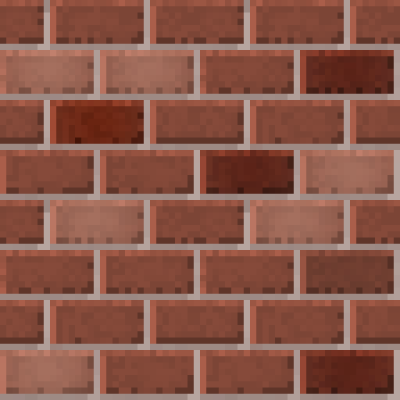
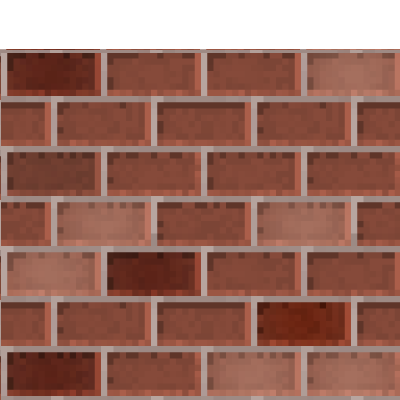
Update code style

diff --git a/lib/game.js b/lib/game.js
@@ -4,32 +4,32 @@ import Enemy from './enemy.js';
 class Game {
     constructor(window) {
         this.window = window;
-        this.speed = 5;
+        this.speed = 7;
         this.score = 0;
         this.xPos = 0;
         this.x2Pos = this.window.innerWidth;
         this.trump = this.createTrump();
         this.enemies = [];
+        this.createEnemy();
         this.createEnemies();
         this.background = new Image();
         this.backgroundFlipped = new Image();
-        this.background.src = "assets/77.jpg";
-        this.backgroundFlipped.src = "assets/77-flipped.jpg";
+        this.background.src = "assets/bg5.jpg";
+        this.backgroundFlipped.src = "assets/bg5-flipped.jpg";
     }
 
     start(canvasEl) {
         let ctx = canvasEl.getContext('2d');
         canvasEl.width = this.window.innerWidth - 20;
         canvasEl.height = this.window.innerHeight - 20;
-
-        
+ 
         const animateCallback = () => {
             this.frame = requestAnimationFrame(animateCallback);
-
             this.renderBackground(ctx);
 
             for (let i = this.enemies.length - 1; i >= 0; i--) {
                 this.trump.collided(this.enemies[0], this.window);
+
                 this.enemies[i].draw(ctx);
                 this.enemies[i].update(this.speed);
 
@@ -39,50 +39,51 @@ class Game {
             }
 
             this.trump.draw(ctx);
+            this.trump.move();
             this.trump.fall(this.window);
 
             if (this.trump.gameOver) {
-                cancelAnimationFrame(this.frame);
+                // cancelAnimationFrame(this.frame);
             }
-
+            this.addScore();
             this.getScore(ctx);
         };
         animateCallback();
     }
 
     createTrump() {
-        const size = [75, 75];
-        const pos = [this.window.innerWidth/5, this.window.innerHeight/2 - size[1]];
+        const size = this.window.innerHeight/6;
+        const pos = [this.window.innerWidth/5, this.window.innerHeight/2 - size];
         let trump = new Trump({ size, pos });
         return trump;
     }
 
     createEnemies() {
-        setInterval(() => this.createEnemy(), 2000)
+        setInterval(() => this.createEnemy(), 2000);
     }
 
     createEnemy() {
-        let pos = [this.window.innerWidth, this.window.innerHeight]
+        let pos = [this.window.innerWidth, this.window.innerHeight];
         let speed = this.speed;
-        let nEnemies = 5
-        let options = {pos, speed, nEnemies}
+        let nEnemies = 5;
+        let topBot = this.generateEnemyPosition();
+        let options = {pos, speed, nEnemies, topBot};
         this.enemies.push(new Enemy(options));
     }
 
-    // generateEnemyPosition() {
-    //     let height = this.window.innerHeight - 125;
-    //     let ratios = [0.25, 0.33, 0.5, 0.67, 0.75]
-    //     var ratio = ratios[Math.floor(Math.random()*ratios.length)];
-    //     let pos = [height * ratio, height * 1 - ratio];
-    //     return pos
-    // }
+    generateEnemyPosition() {
+        let height = this.window.innerHeight - 200;
+        let ratios = [0.25, 0.33, 0.5, 0.67, 0.75];
+        var ratio = ratios[Math.floor(Math.random()*ratios.length)];
+        let topBot = [height * ratio, height * (1 - ratio)];
+        return topBot;
+    }
 
     renderBackground(ctx) {
         this.xPos -= this.speed;
         this.x2Pos -= this.speed;
 
         ctx.drawImage(this.background, this.xPos, 0, this.window.innerWidth, this.window.innerHeight);
-
         ctx.drawImage(this.backgroundFlipped, this.x2Pos, 0, this.window.innerWidth, this.window.innerHeight);
 
         if (this.x2Pos < -this.window.innerWidth) this.x2Pos = -this.x2Pos - 15;
@@ -94,7 +95,8 @@ class Game {
     }
 
     addScore() {
-        if (this.trump.collided(this.enemies[0], this.window)) this.score++
+        if (this.trump.pos[0] > (this.enemies[0].x - this.enemies[0].width) && 
+        this.trump.pos[0] < (this.enemies[0].x - this.enemies[0].width) + 10) this.score++;
     }
 
     getScore(ctx) {

diff --git a/lib/trump.js b/lib/trump.js
@@ -2,17 +2,34 @@ class Trump {
     constructor(options) {
         this.size = options.size;
         this.pos = options.pos;
+        this.xPos = 0;
+        this.moveCounter = 0;
         this.radius = 35;
         this.velocity = 0;
         this.gravity = .45;
         this.lift = 9;
         this.gameOver = false;
         this.trump = new Image();
-        this.trump.src = "assets/trump.png";
+        this.trump.src = "assets/trump_run.png";
     }
 
     draw(ctx) {
-            ctx.drawImage(this.trump, this.pos[0], this.pos[1], this.size[0], this.size[1]);   
+        ctx.drawImage(this.trump, this.xPos, 256, 256, 256, this.pos[0], this.pos[1], this.size, this.size);   
+    }
+
+    move() {
+        this.mCounter();
+        if (this.moveCounter % 5 == 0) {
+            if (this.xPos == 1280) {
+                this.xPos = 0
+            } else {
+                this.xPos += 256;
+            }
+        }
+    }
+
+    mCounter() {
+        this.moveCounter++
     }
 
     jump() {
@@ -23,8 +40,8 @@ class Trump {
         this.velocity -= this.gravity;
         this.pos[1] -= this.velocity;
 
-        if (this.pos[1] > window.innerHeight - this.size[1]) {
-            this.pos[1] = window.innerHeight - this.size[1];
+        if (this.pos[1] > window.innerHeight - this.size) {
+            this.pos[1] = window.innerHeight - this.size;
             this.velocity = 0;
             this.gameOver = true;
         } else if (this.pos[1] < 0) {
@@ -34,12 +51,13 @@ class Trump {
     }
 
     collided(enemy, window) {
-        if (this.pos[0] + this.size[0] + 100 > enemy.x && this.pos[0] + 100 < enemy.x + enemy.width) {
-            if (this.pos[1] < enemy.top || this.pos[1] + this.size[1] -10 > window.innerHeight - enemy.bottom) {
+        if (this.pos[0] + this.size + 90 > enemy.x && 
+            this.pos[0] + 150 < enemy.x + enemy.width) {
+            if (this.pos[1] + this.size -10 > window.innerHeight - enemy.bottom ||
+                this.pos[1] < enemy.top) {
                 this.gameOver = true;
             }
         }
-        return true;
     }
 }
 

diff --git a/lib/enemy.js b/lib/enemy.js
@@ -1,28 +1,20 @@
 class Enemy {
     constructor(options) {
-        this.top = 200
-        this.bottom = 200
-        this.width = 100
+        this.top = options.topBot[0];
+        this.bottom = options.topBot[1];
+        this.width = 150;
         this.x = options.pos[0];
         this.y = options.pos[1];
         this.speed = options.speed;
         this.image = new Image();
-        this.imageDown = new Image();
-        // this.image.src = 'assets/brick.png';
-        // this.imageDown.src = 'assets/pipe-down.png';
+        this.image.src = 'assets/brick2.png';
     }
 
     draw(ctx) {
-        ctx.fillRect(this.x -100, 0, this.width, this.top);
-        ctx.fillRect(this.x -100, this.y-this.bottom, this.width, this.bottom);
-        // this.image.onload = () => {
-        //     ctx.drawImage(this.image, this.pos[0], 250, 100, 100)
-        // }
-        // this.imageDown.onload = () => {
-        //     ctx.drawImage(this.imageDown, this.pos[0], this.pos[1], 100, 100)
-        // }
-
-
+        // ctx.fillRect(this.x -100, 0, this.width, this.top);
+        // ctx.fillRect(this.x -100, this.y-this.bottom, this.width, this.bottom);
+        ctx.drawImage(this.image, this.x -100, 0, this.width, this.top)
+        ctx.drawImage(this.image, this.x -100, this.y - this.bottom, this.width, this.bottom)
     }
 
     update(speed) {

diff --git a/index.html b/index.html
@@ -8,8 +8,15 @@
   </head>
   <body>
     <link rel="stylesheet" type = "text/css" href = "./assets/lights.css" />
+    <button id="start-button" onclick="hideButtons()">Start</button>
+    <script>
+      function hideButtons() {
+        const action = document.getElementsByTagName('button');
+        action[0].setAttribute("class", "hide");
+      }
+    </script>
     <canvas id="canvas"></canvas>
     <script type="application/javascript" src="./dist/bundle.js"></script>
-    <!-- <a id="credit" href='https://www.freepik.com/free-vector/vector-illustration-of-a-mountain-landscape_1215613.htm'>Background image designed by Freepik</a> -->
+    <a id="credit" target="_blank" href="https://www.vecteezy.com">Vector illustration credit: Vecteezy!</a>
   </body>
 </html>

diff --git a/assets/lights.css b/assets/lights.css
@@ -24,14 +24,31 @@ time, mark, audio, video {
 	font: inherit;
 }
 
+body {
+	display: flex;
+	justify-content: center;
+	align-items: center;
+}
+
 canvas {
   border: none;
+  ;
   /* background-color: black; */
+}
+
+.hide {
+	display: none;
 }
 
 #credit {
 	font-size: 8px;
 	position: fixed;
 	bottom: 5px;
-	
+	left: 10px;
+}
+
+#start {
+	position: absolute;
+	top: 400;
+	left: 500;
 }

diff --git a/lib/flappy_trump.js b/lib/flappy_trump.js
@@ -1,11 +1,14 @@
 import Game from './game.js';
 
+
+let startGame = document.getElementById('start-button');
+
 let canvasEl = document.getElementById('canvas');
 
 let game = new Game(window)
-game.start(canvasEl);    
+// startGame.addEventListener('click',() => game.start(canvasEl));    
 
-
+game.start(canvasEl)
 window.onkeyup = (e) => {
     if (e.keyCode == 32) game.callJump();
 }

diff --git a/lib/start_screen.js b/lib/start_screen.js
@@ -1,0 +1,13 @@
+class StartScreen {
+    constructor() {
+
+    }
+
+    draw(ctx, window) {
+        ctx.font = "60px Electrolize";
+        ctx.fillStyle = "white";
+        ctx.strokeText(, window.innerWidth / 2 - 60, 100)
+    }
+}
+
+export default StartScreen;
